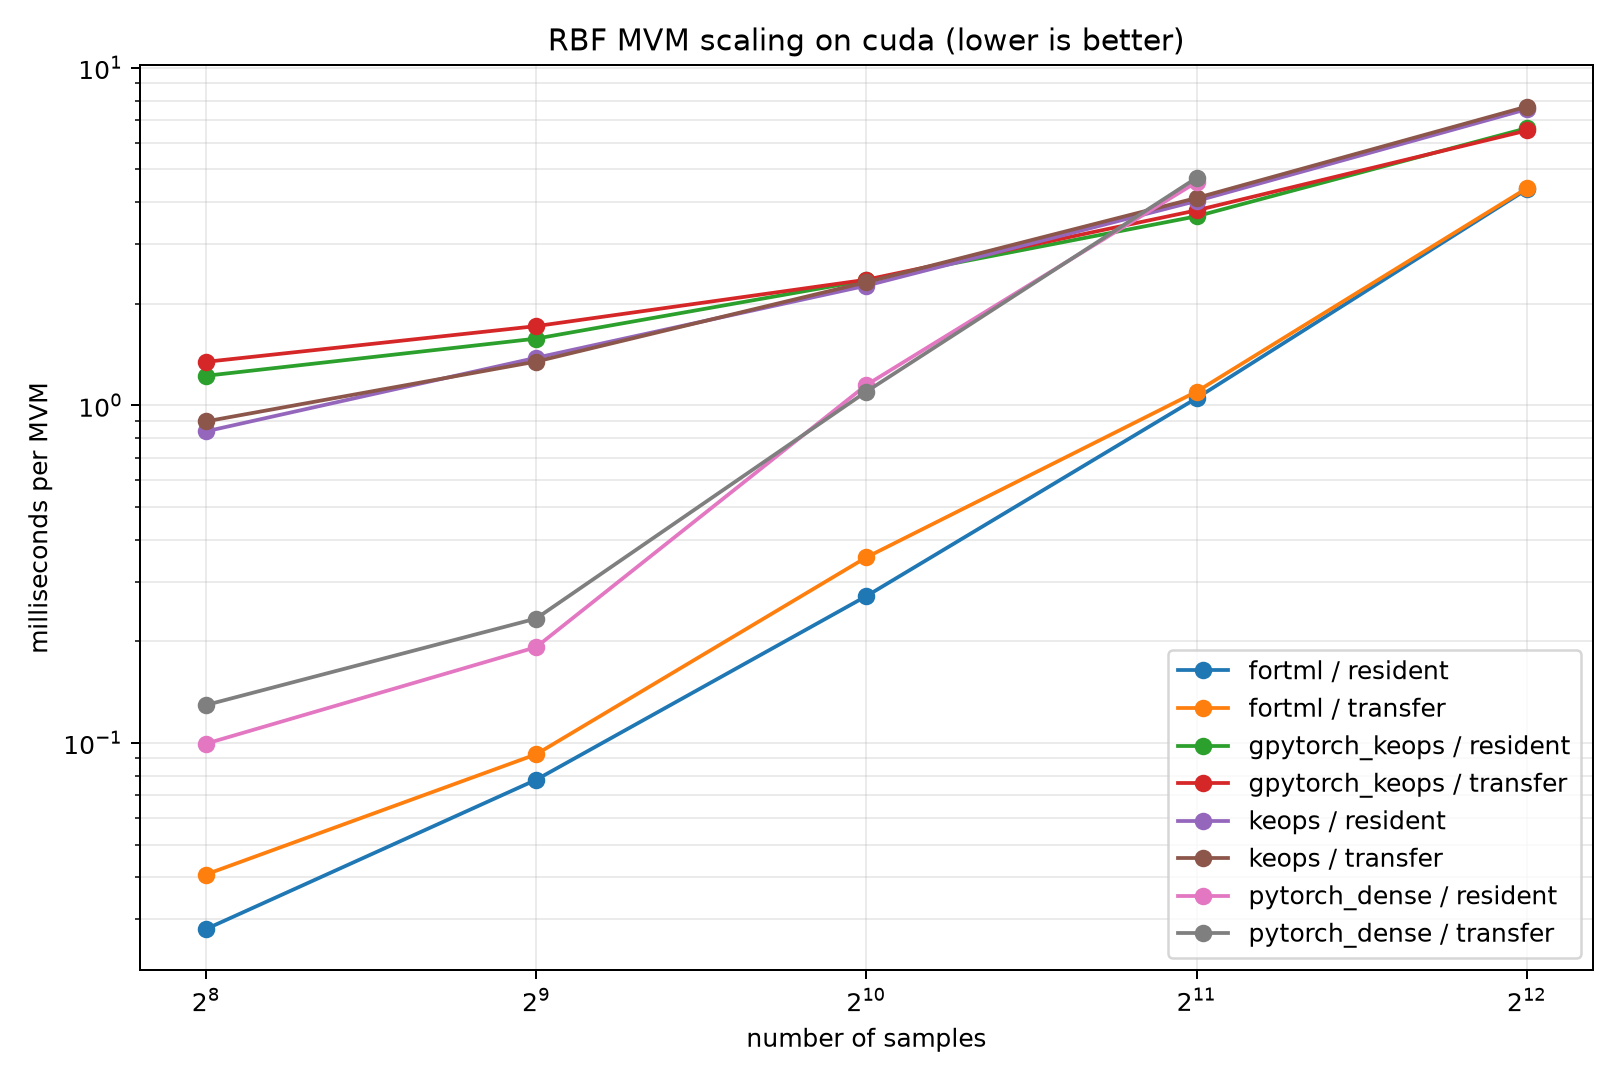
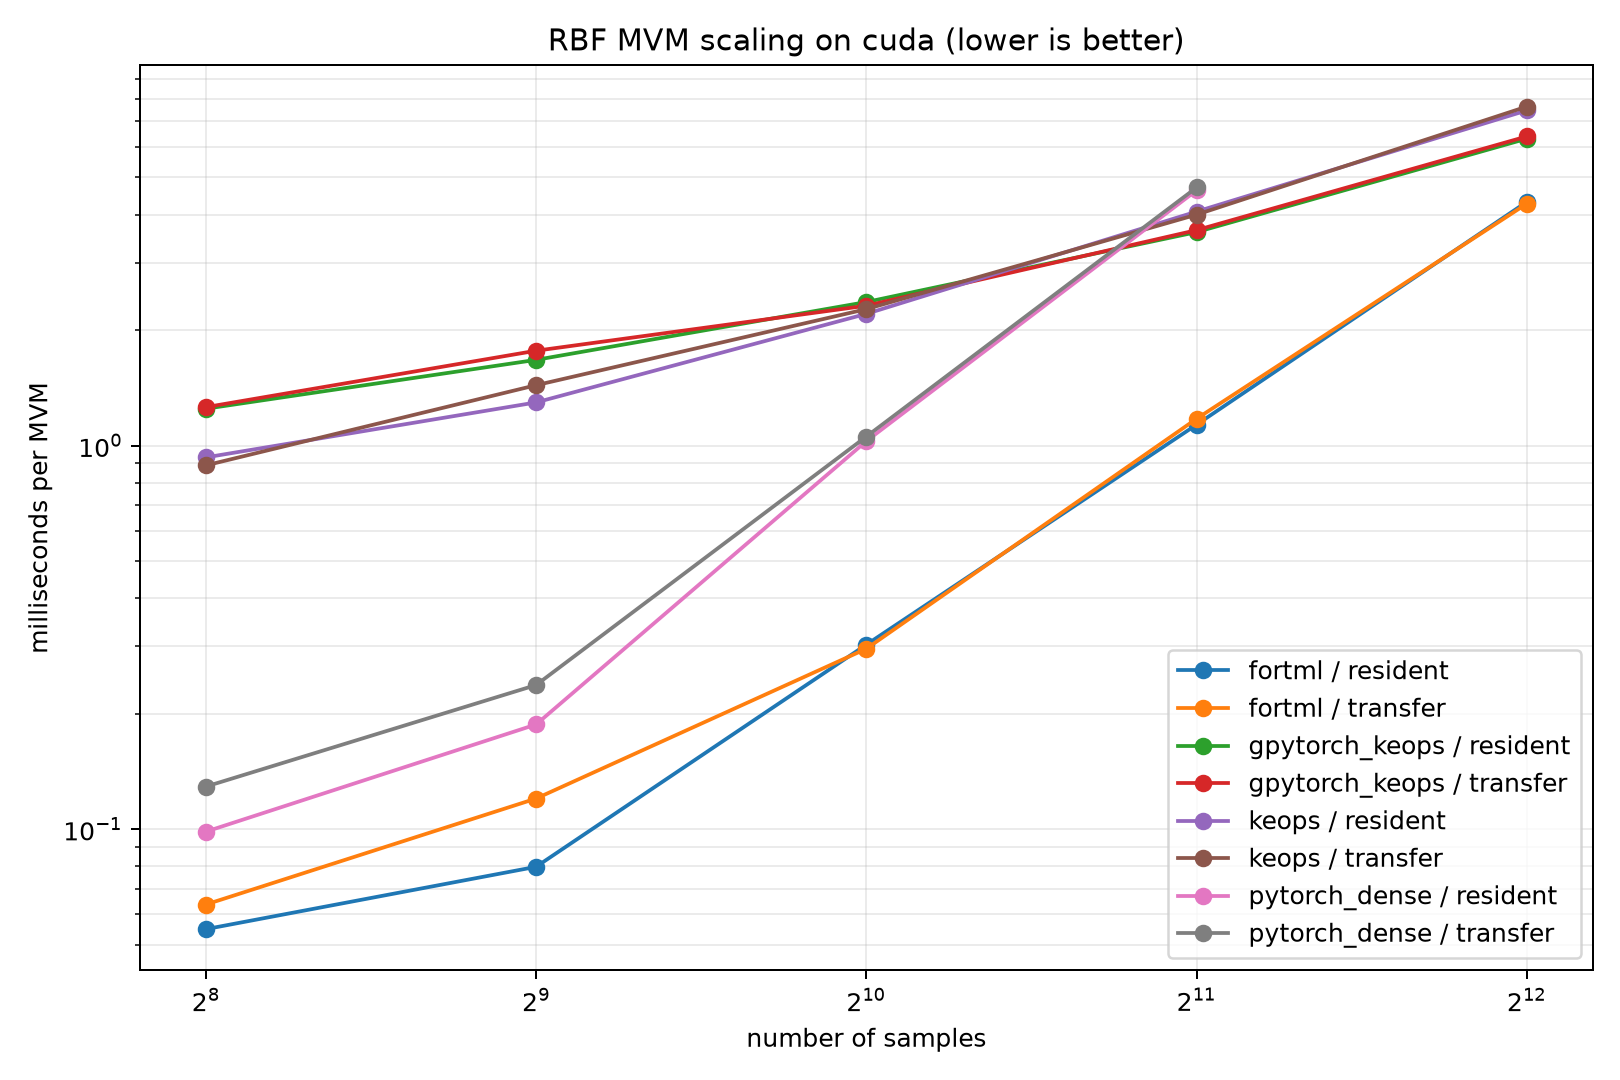
Use nvfortran for the CPU benchmark lane

diff --git a/scripts/run_fortran_rbf.py b/scripts/run_fortran_rbf.py
@@ -34,7 +34,9 @@ def main() -> None:
             environment = os.environ.copy()
             environment.update(
                 {
-                    "FC": environment.get("FORTML_FC", "gfortran"),
+                    "FC": environment.get(
+                        "FORTML_FC", environment.get("FC", "gfortran")
+                    ),
                     "MODE": "cpu",
                     "TARGET": "fortml_bench_rbf_operator",
                     "OUT": str(scratch / "fortran.csv"),

diff --git a/results/OPERATION_PROFILE.md b/results/OPERATION_PROFILE.md
@@ -4,8 +4,8 @@ Run date: 2026-08-05. The matched workload is 1024 samples, 8 features,
 float64, resident inputs, and the same variance, lengthscale, points, input
 vector, and independent NumPy oracle as the timing suite. Python operations
 were collected with torch.profiler after two warm-up calls. The Fortran CPU
-lane used perf stat over 300 MVMs and the GPU lane used Nsight Systems plus
-NV_ACC_TIME over 12 MVMs.
+lane used nvfortran -O3 -mp and perf stat over 300 MVMs. The GPU lane used
+nvfortran -O3 -acc, Nsight Systems, and NV_ACC_TIME over 12 MVMs.
 
 ## What each implementation executes
 
@@ -36,18 +36,18 @@ The Python CUDA trace reported these dominant self-device operations:
 
 The Fortran Nsight Systems trace reported 13 launches for the correctness
 call plus 12 timed resident calls. The kernel used grid [1024], block [128],
-and averaged 264.0 us per launch. NV_ACC_TIME measured 29 us of input copies
+and averaged 276.0 us per launch. NV_ACC_TIME measured 48 us of input copies
 and 16 us of output copyout for the whole profiled run. The Nsight Compute
 attempt was blocked by ERR_NVGPUCTRPERM, so occupancy, register count,
 warp-stall, and memory throughput counters still require GPU
 performance-counter permission on the cluster.
 
-The CPU perf stat run measured, amortized per MVM, approximately 26.3 million
-cycles, 40.8 million instructions, 80 thousand cache misses, and 1.47
-thousand branch misses. The low branch-miss count is consistent with a
-regular reduction loop. The main remaining CPU question is vector math
-throughput for the exponential and reuse across neighboring output rows,
-which needs a symbol-level profile on an otherwise idle node.
+The nvfortran CPU perf stat run measured, amortized per MVM, approximately
+15.0 million cycles, 42.0 million instructions, 42 thousand cache misses, and
+3.7 thousand branch misses. The regular reduction loop remains branch-light.
+The remaining CPU profiling question is vector math throughput for the
+exponential and reuse across neighboring output rows, which needs a
+symbol-level profile on an otherwise idle node.
 
 ## Inefficiencies found and fixed
 

diff --git a/results/README.md b/results/README.md
@@ -3,11 +3,13 @@
 Run date: 2026-08-05. Workload: 2048 samples, 8 features, float64, 12 MVM
 repetitions. The CPU comparison uses 16 physical cores on an AMD Ryzen 9 5950X.
 The GPU comparison uses an NVIDIA GeForce RTX 5060 Ti. Every recorded row
-passed the independent blocked NumPy oracle.
+passed the independent blocked NumPy oracle. Capacity failures are recorded
+as OOM rather than treated as correctness passes.
 
 Fortran is within the 30-percent target of GPyTorch-KeOps on this workload.
 The current scaling sweep uses the contiguous sample-major kernel from fortml
-commit a205898. The CPU and GPU compiler, package, driver, source-commit, and
+commit a205898. Its CPU lane uses nvfortran -O3 -mp and its GPU lane uses
+nvfortran -O3 -acc. The CPU and GPU compiler, package, driver, source-commit, and
 numerical error fields are in rbf_mvm_scaling.csv.
 
 Plot:
@@ -27,18 +29,17 @@ GPyTorch-KeOps, and Fortran continue and pass the independent oracle.
 
 CPU plot:
 
-https://box.sloppy.at/d69f0.png
+https://box.sloppy.at/0f460.png
 
 GPU plot:
 
-https://box.sloppy.at/076a0.png
+https://box.sloppy.at/e1f7f.png
 
 The merged scaling data is in `rbf_mvm_scaling.csv`. At 4096 samples, Fortran
-takes 4.37 ms per resident GPU MVM, compared with 6.63 ms for GPyTorch-KeOps
-and 7.55 ms for KeOps. On the CPU lane, the same run takes 7.85 ms for
-Fortran, 6.27 ms for GPyTorch-KeOps, and 7.70 ms for KeOps. Thus the GPU
-curve is lowest throughout this sweep. The CPU endpoint remains within the
-30-percent target but is not yet the lowest point.
+takes 4.32 ms per resident GPU MVM, compared with 6.31 ms for GPyTorch-KeOps
+and 7.48 ms for KeOps. On the CPU lane, nvfortran Fortran takes 4.66 ms,
+compared with 6.22 ms for GPyTorch-KeOps and 7.56 ms for KeOps. The Fortran
+curve is lowest at every tested size on both devices.
 
 The operation-level comparison is in
 [OPERATION_PROFILE.md](OPERATION_PROFILE.md), with raw torch.profiler

diff --git a/README.md b/README.md
@@ -52,6 +52,9 @@ The CPU lane defaults to physical cores and can be pinned explicitly:
 
     CPU_THREADS=16 ./scripts/run_suite.sh
 
+When nvfortran is available, the CPU lane uses its host OpenMP path with
+nvfortran -O3 -mp. Set CPU_FC=gfortran to select the GNU Fortran fallback.
+
 Run the five-size scaling sweep with:
 
     ./scripts/run_scaling.sh
